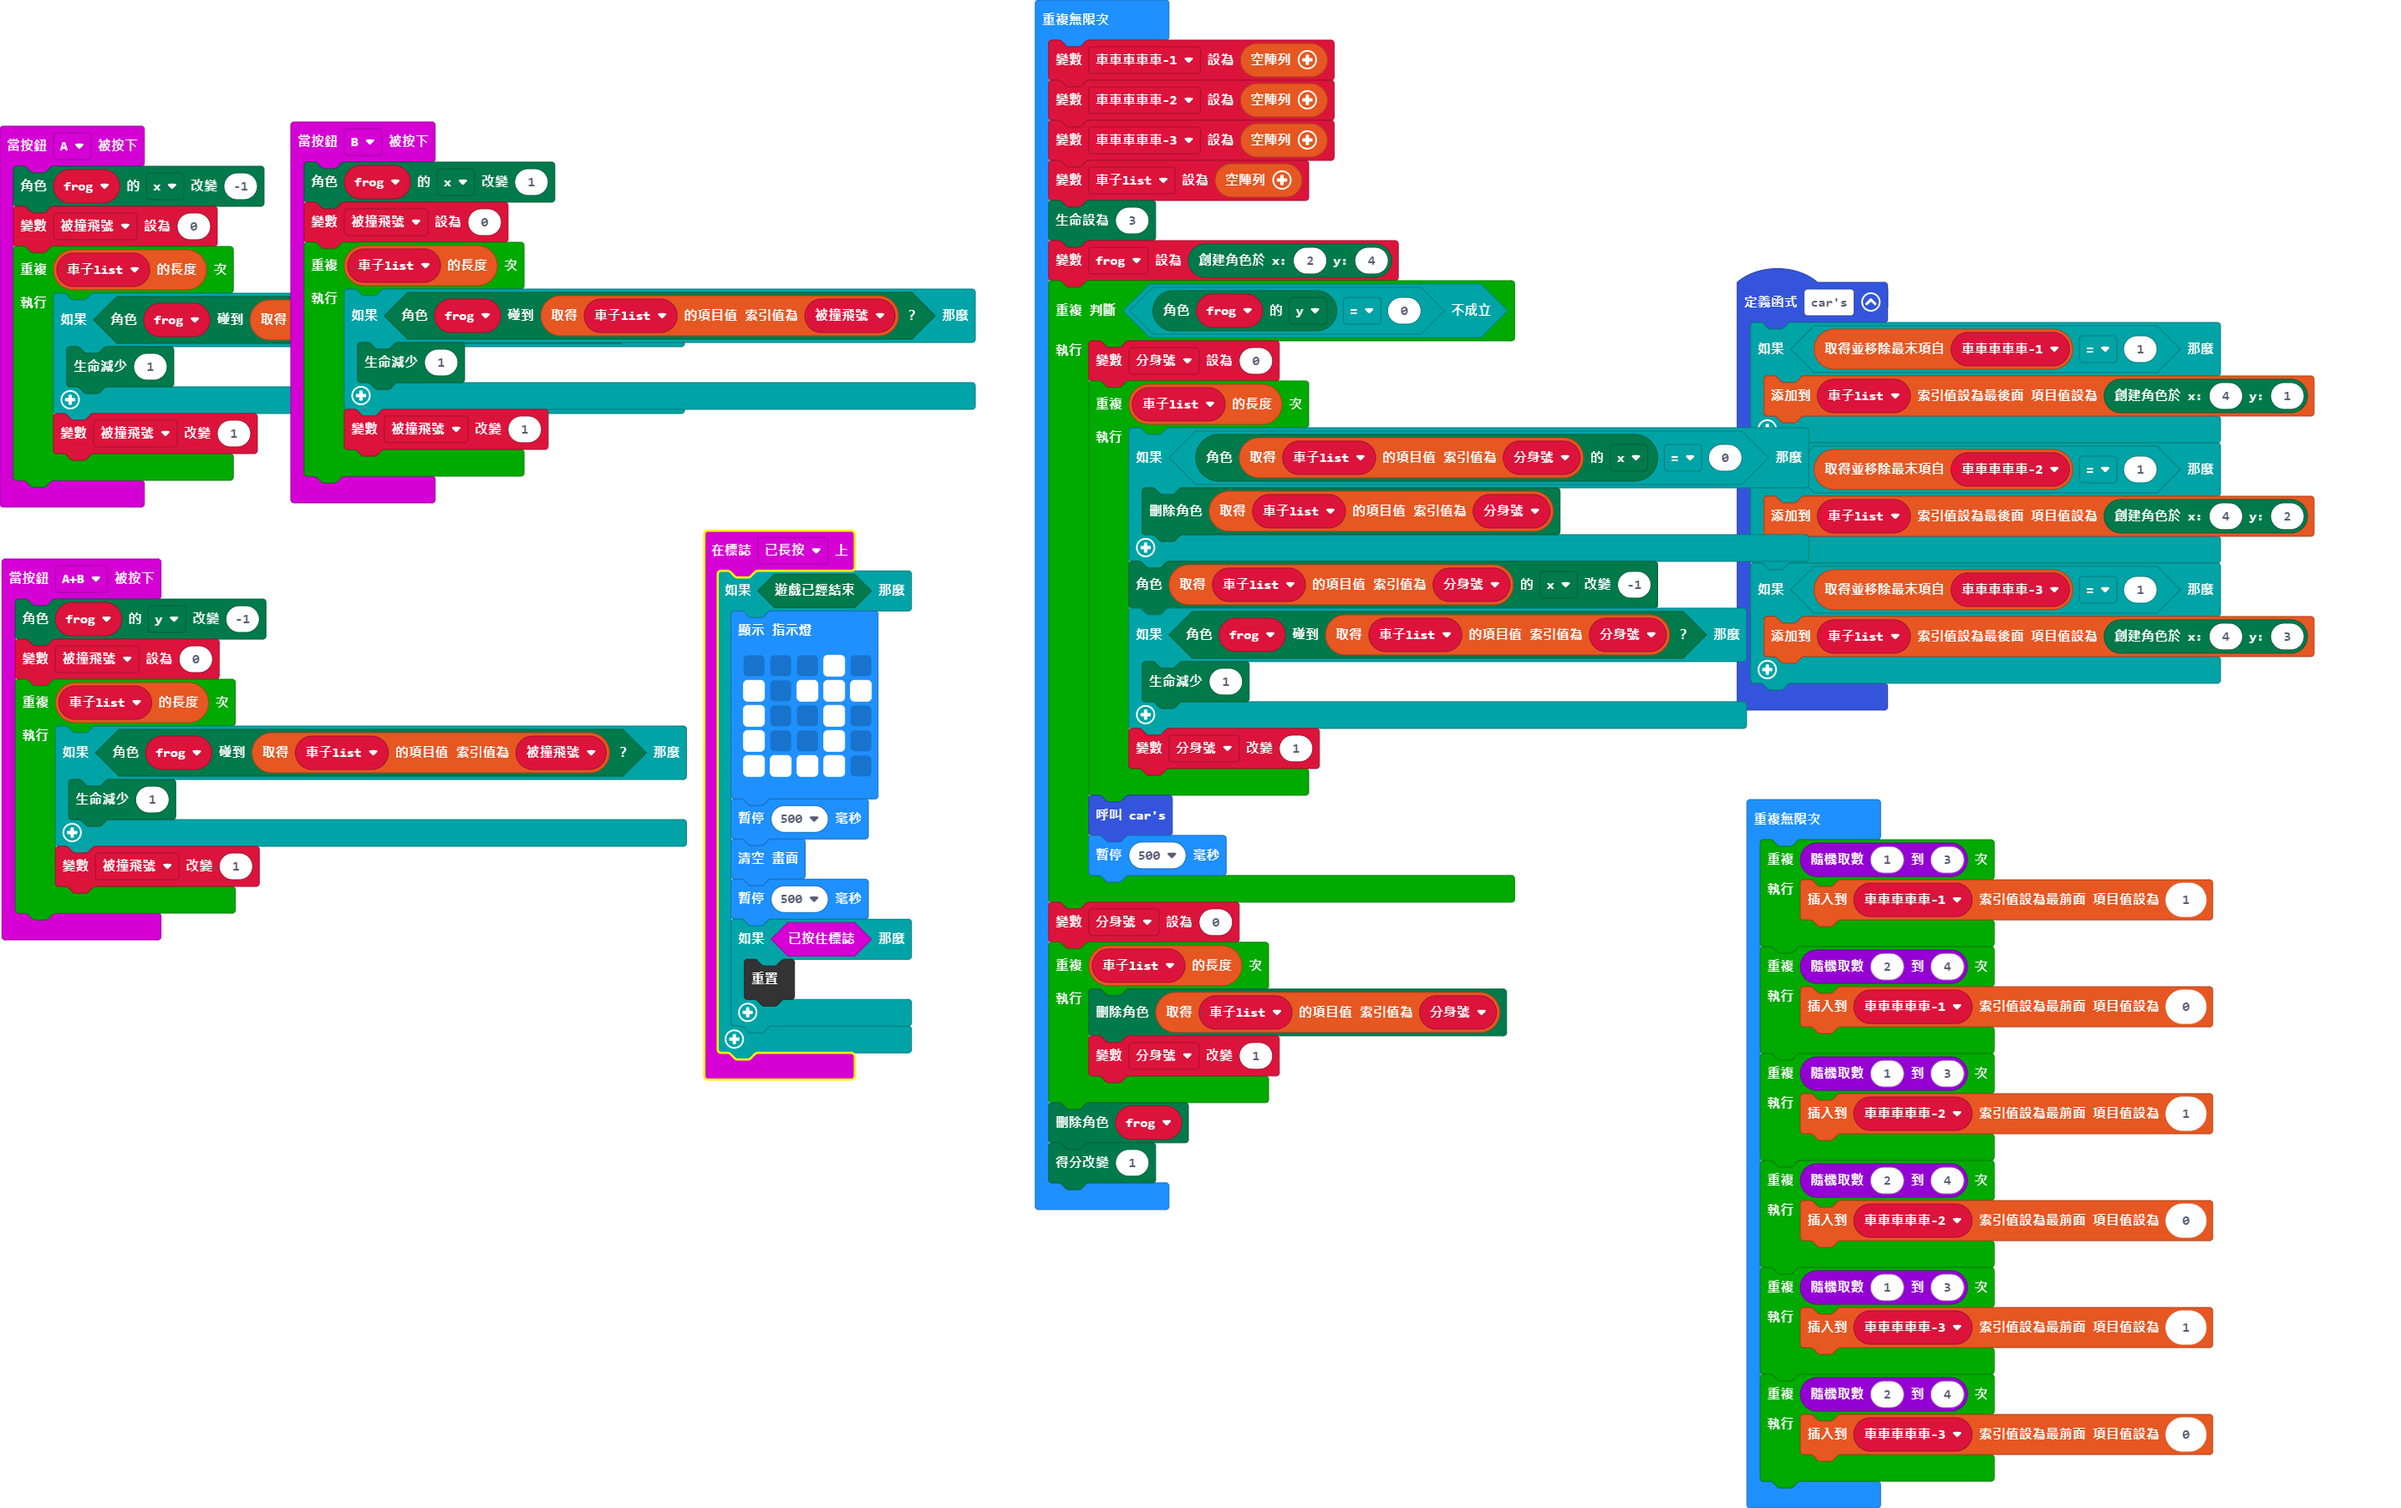
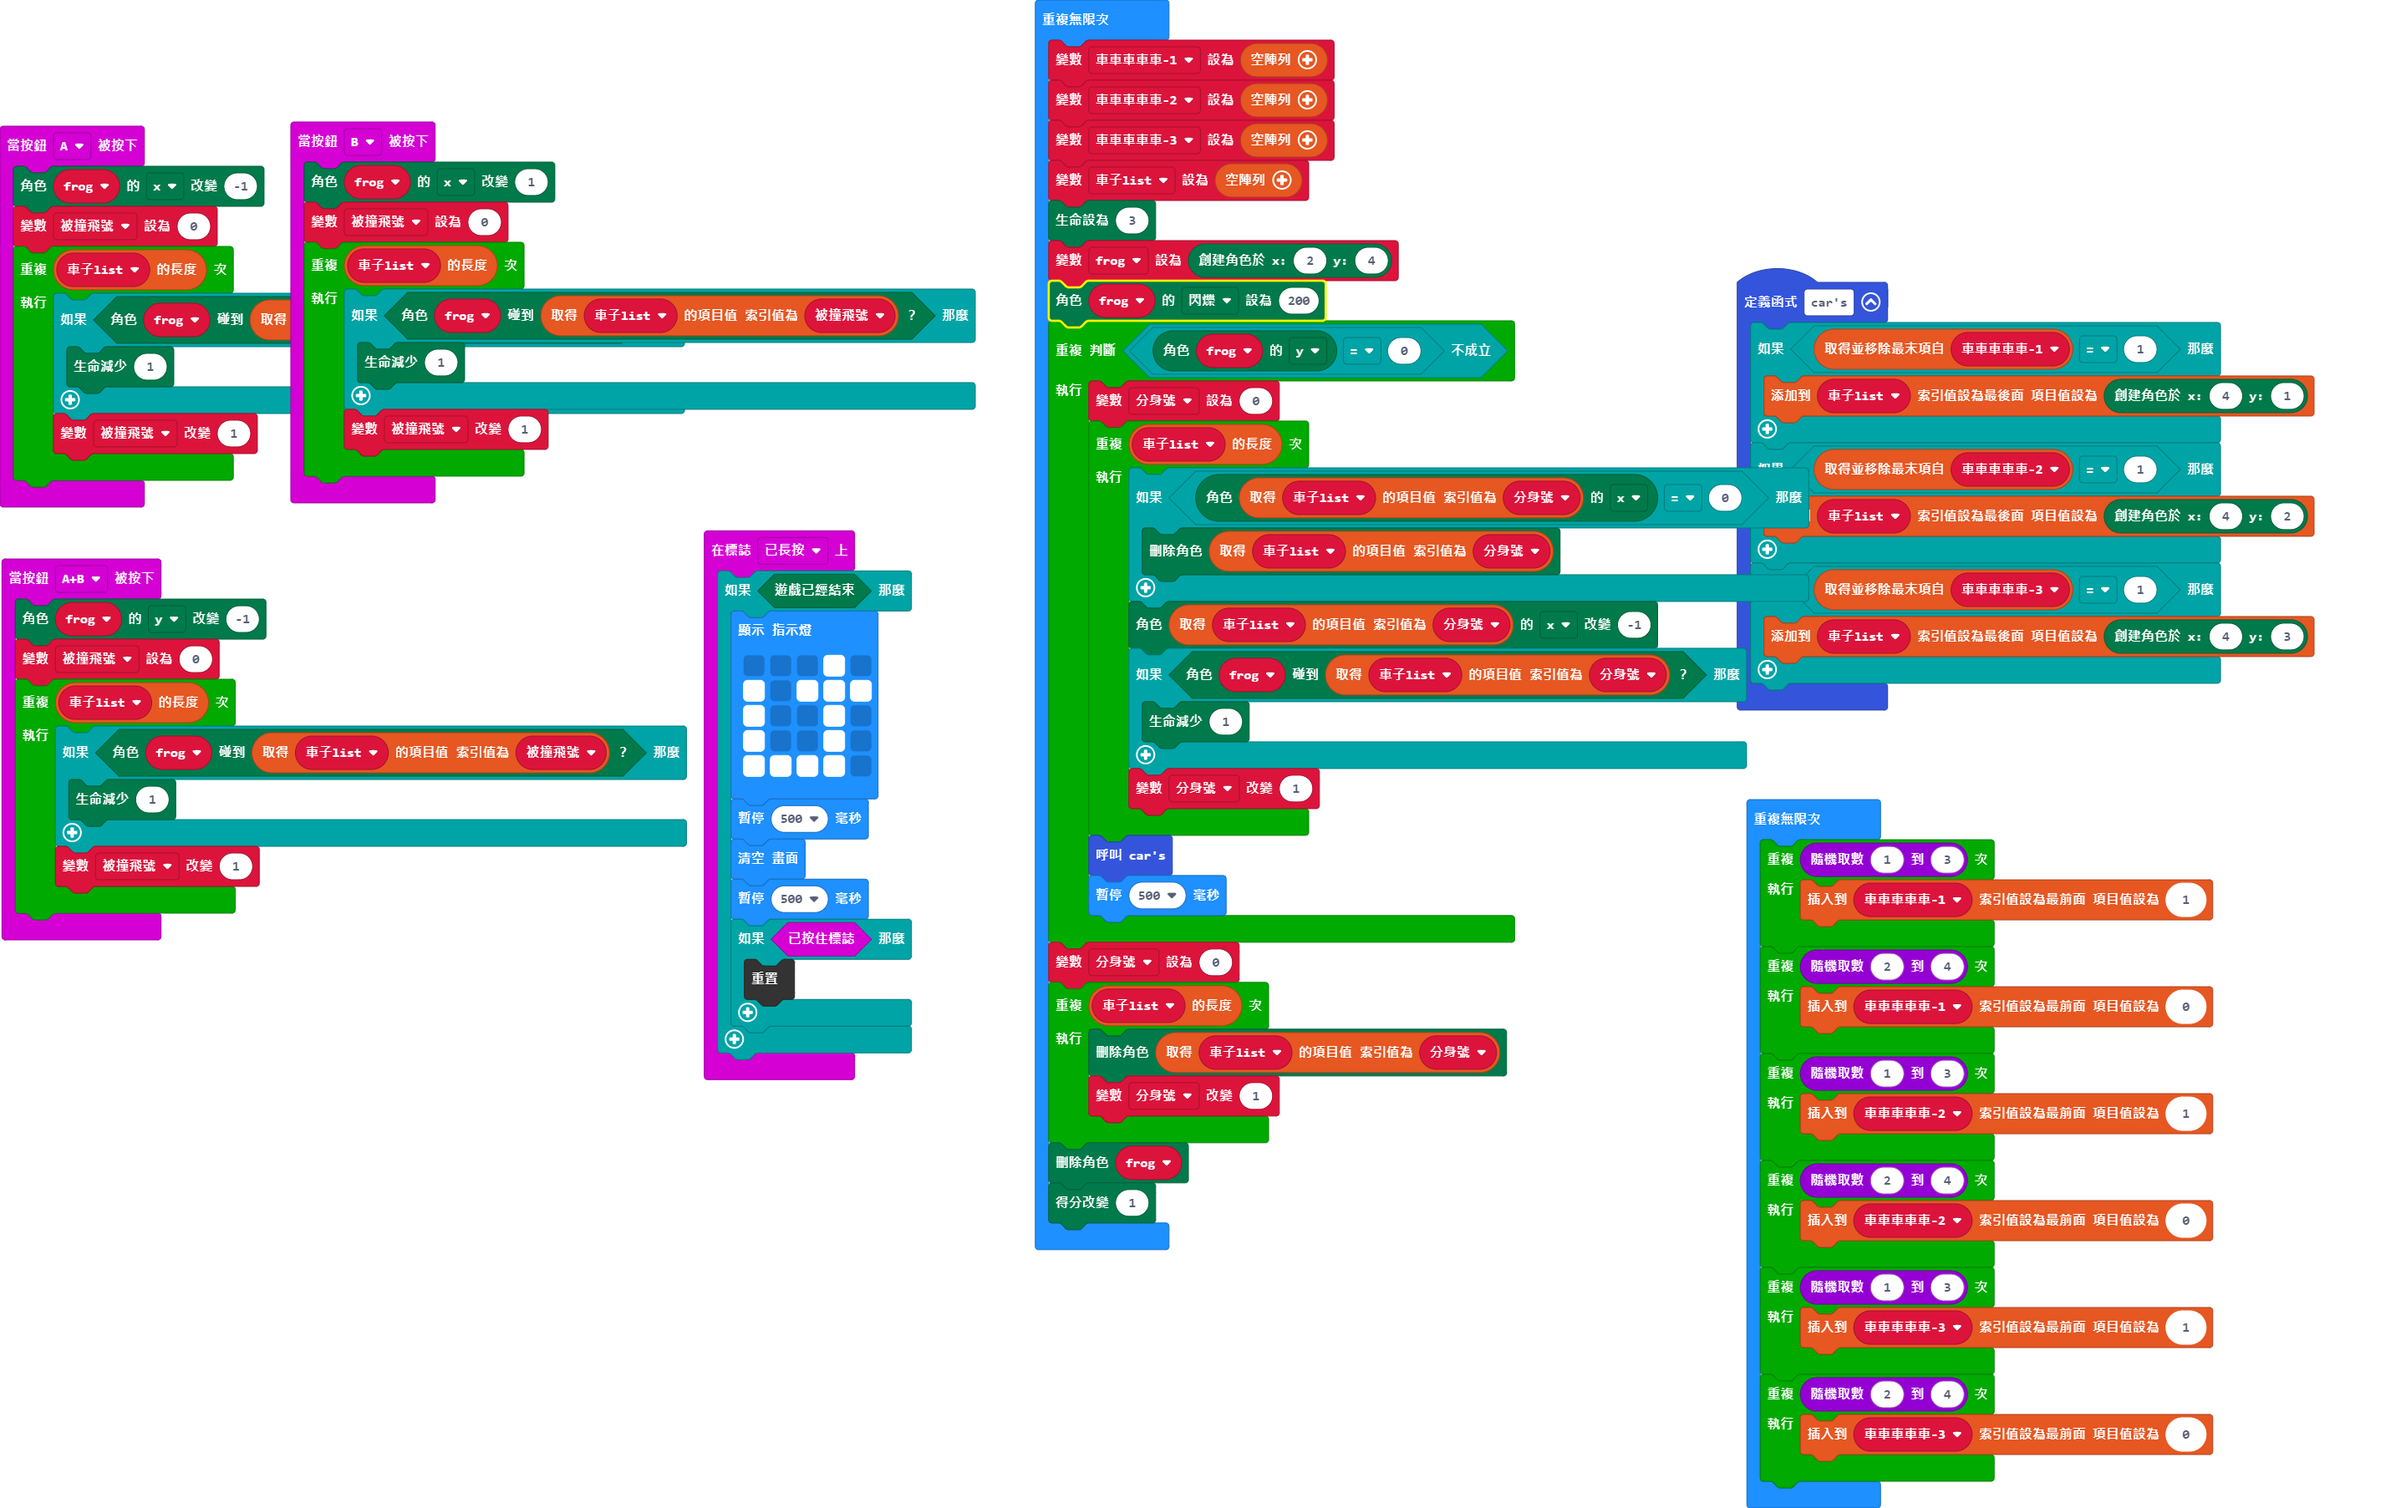
更新 main.blocks, main.ts

Changed region(s): [[0.4337, 0.1861, 0.7745, 0.8377], [0.2788, 0.3723, 0.3098, 0.4033]]

diff --git a/main.ts b/main.ts
@@ -70,6 +70,7 @@ basic.forever(function () {
     車子list = []
     game.setLife(3)
     frog = game.createSprite(2, 4)
+    frog.set(LedSpriteProperty.Blink, 200)
     while (!(frog.get(LedSpriteProperty.Y) == 0)) {
         分身號 = 0
         for (let index = 0; index < 車子list.length; index++) {
